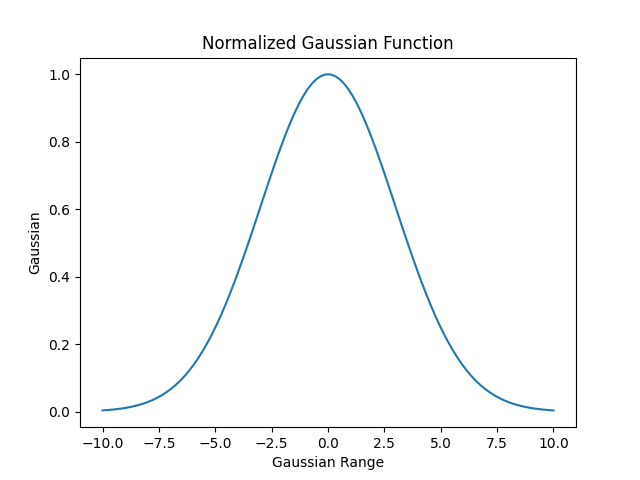
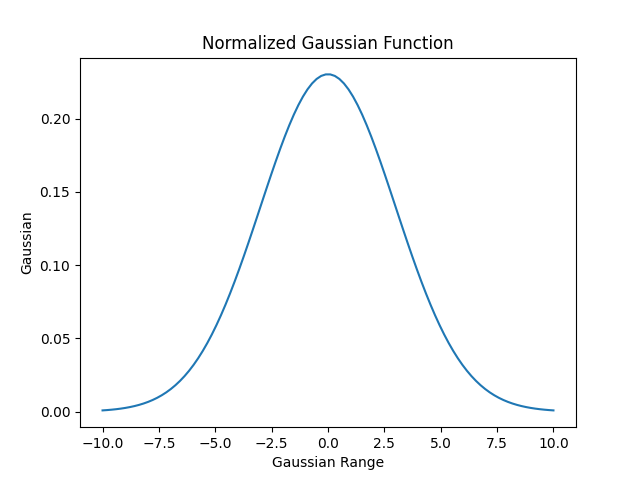
Fixed normalization

diff --git a/ps-1/plot_gaussian.py b/ps-1/plot_gaussian.py
@@ -16,10 +16,7 @@ def gaussian(x,sigma,mu):
 x = np.linspace(-10,10,100)
 # Then we can find the results of our gaussian (y) for each x from the array above and store them as a list
 # To make list [] then use a for loop to iterate through array 
-y_0 = [gaussian(x_i,3,0) for x_i in x] 
-
-# Normalizing y
-y = [i/max(y_0) for i in y_0]
+y = [gaussian(x_i,3,0) for x_i in x] 
 
 # Now we can plot using pyplot
 plt.plot(x,y)
